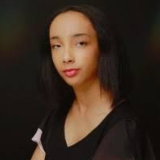
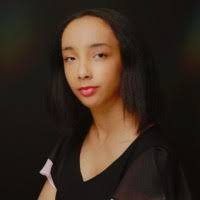
updated speaker images

diff --git a/elevatehacks.html b/elevatehacks.html
@@ -537,6 +537,21 @@
             </div>
         </div>
         <div class="speakers-section">
+            <div class="speakers-title">AI Ethics</div>
+            <div class="speaker-container">
+                <div class="speaker-img-container">
+                    <img class="speaker-img" src="images/speakers/ria-cherevu.png">
+                </div>
+                <div class="speaker-about-container">
+                    <p class="speaker-name">Ria Cherevu</p>
+                    <p class="speaker-about">Ria Cheruvu is an AI Ethics Lead Architect at the Intel Internet of Things
+                        engineering group working on developing trustworthy AI products. Her pathfinding domains include
+                        solutions for security and privacy for machine learning, fairness, explainable and responsible
+                        AI systems, uncertain AI, reinforcement learning, and computational models of intelligence.</p>
+                </div>
+            </div>
+        </div>
+        <div class="speakers-section">
             <div class="speakers-title">Black Remote She</div>
             <div class="speaker-container">
                 <div class="speaker-img-container">
